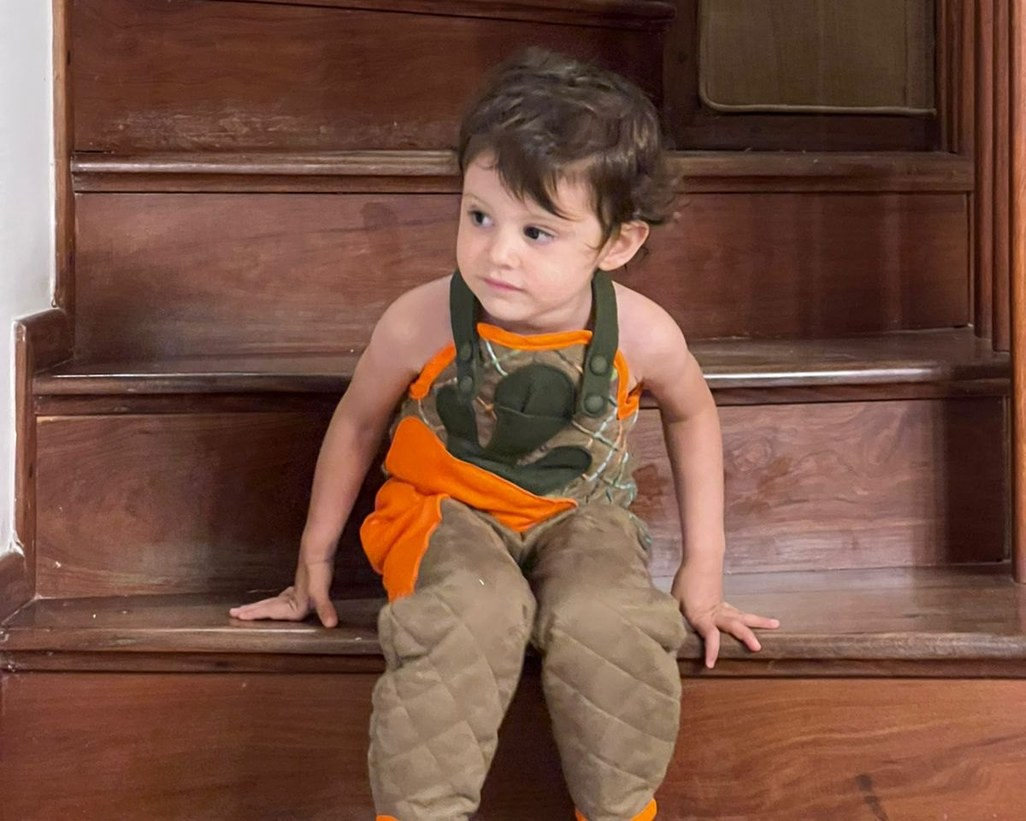
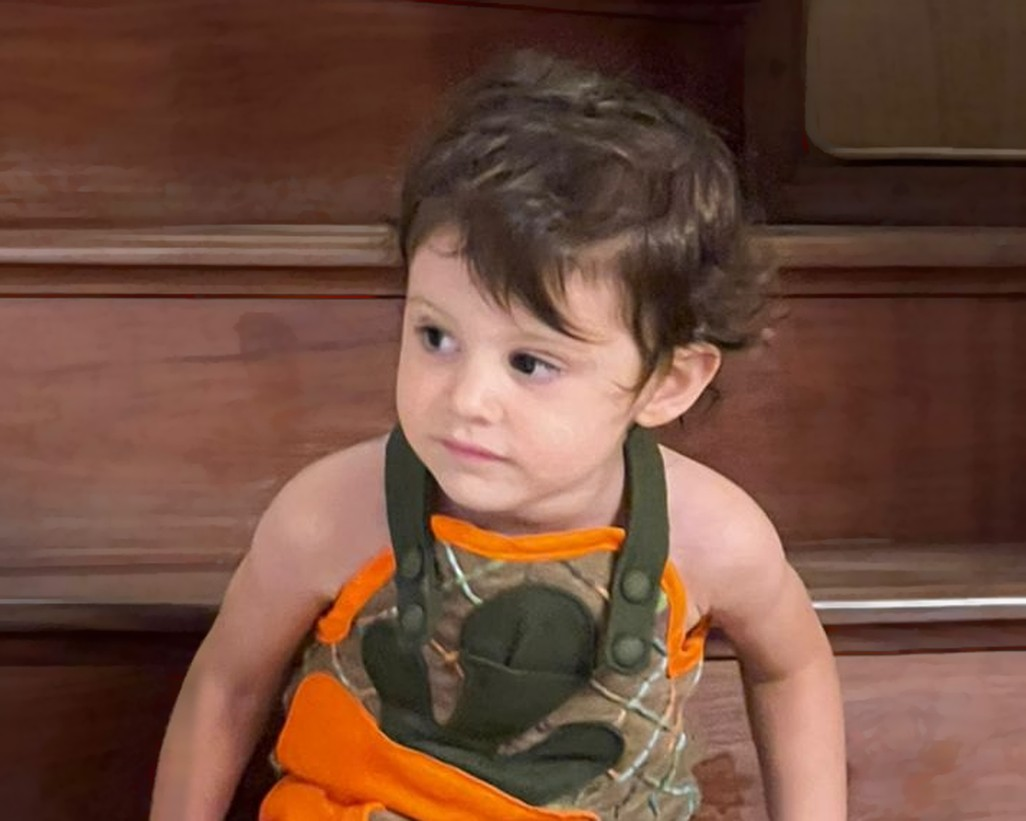
Nada es Plano: inglés corregido por Carolina, centrado leve en la colección y las prendas, créditos más sutiles, texto manuscrito aparece más suave; miniatura de Exprimir con más zoom y escalera retocada
Claude-Session: https://claude.ai/code/session_01VVY2Xm9Z2yGy11hWit3G9P

diff --git a/index.html b/index.html
@@ -677,7 +677,7 @@
   .nep-ph{ position:relative; }
   .nep-ph-img{ position:absolute; display:block; cursor:pointer; will-change:transform; border-radius:3px; object-fit:cover; }
   /* crédito de la modelo: encima de la foto, centrado cerca del borde de abajo, en un piedra muy clarito */
-  .nep-ph-cap{ position:absolute; transform:translateX(-50%); font-size:11px; letter-spacing:.04em; color:#d9d5cc; white-space:nowrap; pointer-events:none; will-change:transform; z-index:1; }
+  .nep-ph-cap{ position:absolute; transform:translateX(-50%); font-size:11px; letter-spacing:.04em; color:#d9d5cc; opacity:.55; white-space:nowrap; pointer-events:none; will-change:transform; z-index:1; }
   /* foto ampliada: lo más grande posible dejando aire, con el fondo difuminado */
   .nep-lb{ position:fixed; inset:0; z-index:330; display:flex; align-items:center; justify-content:center; cursor:pointer;
     background:rgba(255,255,255,.5); -webkit-backdrop-filter:blur(22px); backdrop-filter:blur(22px);
@@ -699,9 +699,9 @@
   .nep-hand{ height:100vh; display:none; position:relative; z-index:1; background:#fff; }   /* tapa lo poco que baja el bloque de abajo de las fotos al abrirse */
   .nep-hand.on{ display:block; }
   .nep-hand-img{ position:absolute; left:50%; top:50%; width:min(44vw, 760px); height:auto; display:block;
-    opacity:0; transform:translate(-50%,calc(-50% + 14px)); filter:brightness(0) blur(7px);
-    transition:opacity .9s ease, transform 1.1s cubic-bezier(.2,.7,.2,1), filter 1s ease; }
-  /* aparece rápido y suave: de difuminado a nítido, subiendo apenas */
+    opacity:0; transform:translate(-50%,calc(-50% + 8px)); filter:brightness(0) blur(9px);
+    transition:opacity 2.6s cubic-bezier(.45,0,.35,1), transform 3s cubic-bezier(.25,.6,.25,1), filter 2.8s cubic-bezier(.4,0,.3,1); }
+  /* aparece muy sutil, sin golpe: de difuminado a nítido, de a poco, subiendo apenas */
   .nep-hand.in .nep-hand-img{ opacity:.92; transform:translate(-50%,-50%); filter:brightness(0) blur(0); }
   /* el video: aparece sutil sobre negro; al terminar (o con un click) se funde en blanco */
   .nep-vid{ position:fixed; inset:0; z-index:330; background:#000; opacity:0; pointer-events:none; transition:opacity 1.2s ease, background-color 1.2s ease; overflow:hidden; }
@@ -1249,7 +1249,7 @@
             <div class="nep-video-clip"><video class="nep-video" id="nepVideo" src="assets/nada-es-plano-video.mp4" muted playsinline preload="auto"></video><div class="nep-ini-veil"></div></div>
             <div class="nep-head" id="nepHead">
               <h1 class="nep-title nep-in">Nada es Plano</h1>
-              <div class="nep-sub nep-in" style="animation-delay:300ms"><em><span data-es>Colecci&oacute;n de indumentaria</span><span data-en>Fashion collection</span></em> &nbsp;2026</div>
+              <div class="nep-sub nep-in" style="animation-delay:300ms"><em><span data-es>Colecci&oacute;n de indumentaria</span><span data-en>Apparel collection</span></em> &nbsp;2026</div>
             </div>
             <div class="nep-roles nep-in" style="animation-delay:300ms">
               <span data-es>Direcci&oacute;n Creativa<br>Desarrollo Conceptual<br>Direcci&oacute;n de Arte<br>Identidad Visual<br>Desarrollo de Colecci&oacute;n</span>
@@ -1281,7 +1281,7 @@
               <img class="nep-proc-img" id="nepProcImg" src="assets/nada-es-plano-proceso-bocetos.webp" alt="Bocetos del proceso">
               <div class="nep-bt1-wrap nep-bt1-mask">
                 <!-- los dos primeros párrafos pasan por el centro con el scroll -->
-                <div class="nep-bt nep-bt1a" id="nepBt1a"><div data-es><p>La investigación sobre color, emoción, memoria e identidad dio lugar a una extensa experimentación textil. La psicología del color funcionó como punto de partida para explorar distintas relaciones cromáticas, mientras la búsqueda de materiales permitió comprender cómo cada superficie modificaba la percepción del color y su expresión.</p><p>A través de pruebas de color, combinaciones y sublimados, se desarrollaron múltiples variantes sobre los textiles seleccionados hasta encontrar las relaciones precisas para cada material. El proceso convirtió la investigación conceptual en decisiones concretas de producto, construyendo un lenguaje cromático propio para la colección.</p></div><div data-en><p>Research into color, emotion, memory and identity led to extensive textile experimentation. Color psychology served as the starting point for exploring different chromatic relationships, while the search for materials made it possible to understand how each surface changed the perception of color and its expression.</p><p>Through color tests, combinations and sublimation prints, multiple variations were developed on the selected textiles until the right relationships were found for each material. The process turned conceptual research into concrete product decisions, building a chromatic language of the collection’s own.</p></div></div>
+                <div class="nep-bt nep-bt1a" id="nepBt1a"><div data-es><p>La investigación sobre color, emoción, memoria e identidad dio lugar a una extensa experimentación textil. La psicología del color funcionó como punto de partida para explorar distintas relaciones cromáticas, mientras la búsqueda de materiales permitió comprender cómo cada superficie modificaba la percepción del color y su expresión.</p><p>A través de pruebas de color, combinaciones y sublimados, se desarrollaron múltiples variantes sobre los textiles seleccionados hasta encontrar las relaciones precisas para cada material. El proceso convirtió la investigación conceptual en decisiones concretas de producto, construyendo un lenguaje cromático propio para la colección.</p></div><div data-en><p>Research into color, emotion, memory and identity led to extensive textile experimentation. Color psychology served as the starting point for exploring different chromatic relationships, while the search for materials made it possible to understand how each surface changed the perception of color and its expression.</p><p>Through color tests, combinations and sublimation prints, multiple variations were developed on the selected textiles until the right relationships were found for each material. The process turned conceptual research into concrete design decisions, building a chromatic language of its own for the collection.</p></div></div>
                 <!-- los otros dos frenan en el centro (y si se abre el cuaderno, los empuja hacia la derecha) -->
                 <div class="nep-bt nep-bt1b" id="nepBt1b"><div data-es><p>La experimentación se extendió a estampas, texturas, transparencias y superposiciones, explorando distintas formas de hacer visible la multiplicidad que atraviesa el concepto. Cada recurso fue desarrollado en relación con los materiales y con su comportamiento sobre la prenda, buscando que lo visual y lo material construyeran una misma expresión.</p><p>El resultado surge de un proceso de prueba y ajuste en el que la exploración no fue un paso previo al diseño, sino parte de su propia construcción.</p></div><div data-en><p>The experimentation extended to prints, textures, transparencies and layering, exploring different ways of making visible the multiplicity that runs through the concept. Each resource was developed in relation to the materials and to how they behave on the garment, so that the visual and the material would build a single expression.</p><p>The result comes from a process of testing and adjusting, in which exploration was not a step prior to design, but part of its very construction.</p></div></div>
               </div>
@@ -1323,7 +1323,7 @@
               <img class="nep-coll-p" src="assets/nada-es-plano-coleccion-14.webp" alt="" style="left:57.500%;top:77.228%;width:20.300%">
               <img class="nep-coll-p" src="assets/nada-es-plano-coleccion-15.webp" alt="" style="left:79.600%;top:72.348%;width:17.950%">
             </div>
-            <div class="nep-bt nep-coll-text"><div data-es><p>La colección reúne quince prendas desarrolladas a partir de una búsqueda simultánea de color, texturas, estampados y moldería. Estas exploraciones se fueron transformando entre sí hasta construir el lenguaje visual y material de la colección. Las estampas incorporaron también obras de arte como referencias e inspiración.</p><p>Los prototipos permitieron llevar estas búsquedas al cuerpo y ajustar cada diseño hasta alcanzar su resolución definitiva. De las quince prendas, cuatro fueron materializadas por condensar especialmente la identidad y complejidad de la colección.</p></div><div data-en><p>The collection brings together fifteen garments developed through a simultaneous exploration of color, texture, print and patternmaking. These explorations kept transforming one another until they built the visual and material language of the collection. The prints also drew on works of art as references and inspiration.</p><p>The prototypes made it possible to bring these explorations onto the body and refine each design until it reached its final resolution. Of the fifteen garments, four were produced because they especially condense the identity and complexity of the collection.</p></div></div>
+            <div class="nep-bt nep-coll-text"><div data-es><p>La colección reúne quince prendas desarrolladas a partir de una búsqueda simultánea de color, texturas, estampados y moldería. Estas exploraciones se fueron transformando entre sí hasta construir el lenguaje visual y material de la colección. Las estampas incorporaron también obras de arte como referencias e inspiración.</p><p>Los prototipos permitieron llevar estas búsquedas al cuerpo y ajustar cada diseño hasta alcanzar su resolución definitiva. De las quince prendas, cuatro fueron materializadas por condensar especialmente la identidad y complejidad de la colección.</p></div><div data-en><p>The collection brings together fifteen garments developed through a simultaneous exploration of color, texture, print and patternmaking. These explorations kept transforming one another until they built the visual and material language of the collection. The prints also drew on works of art as references and sources of inspiration.</p><p>The prototypes made it possible to bring these explorations onto the body and refine each design until it reached its final resolution. Of the fifteen garments, four were produced because they especially condense the identity and complexity of the collection.</p></div></div>
           </section>
 
           <!-- 6. LAS CUATRO PRENDAS MATERIALIZADAS: en una fila, cada una con su espalda por detrás. Al pasar
@@ -4284,10 +4284,10 @@
     const t = Math.min((performance.now() - G.t0) / G.T, 1);
     const t2 = t * t, t3 = t2 * t;
     workTarget = (2 * t3 - 3 * t2 + 1) * G.from + (t3 - 2 * t2 + t) * G.T * G.v0 + (-2 * t3 + 3 * t2) * G.to;
-    if(t >= 1){ workTarget = G.to; nepGlide = null; nepGlideEnd = performance.now(); }
+    if(t >= 1){ workTarget = G.to; nepGlide = null; if(!G.soft) nepGlideEnd = performance.now(); }
   }
   function nepSnaps(){
-    return [nepL && nepL.snap].concat(nb.snaps || [], nepPzSnap ? [nepPzSnap] : [], nepHand.snaps || []).filter(Boolean);
+    return [nepL && nepL.snap].concat(nb.snaps || [], nepHand.snaps || []).filter(Boolean);
   }
   // ¿este movimiento de la ruedita entra en la zona de un punto? → se acomoda solo
   function nepSnapCheck(dir, nt, now){
@@ -4330,7 +4330,31 @@
     const vh = window.innerHeight, row = document.getElementById('nepPzRow');
     const tops = Array.from(row.querySelectorAll('.nep-pz-top .nep-pz-fig'));
     const c = tops.reduce((acc, f) => acc + f.offsetTop + f.offsetHeight / 2, 0) / (tops.length || 1);
-    nepPzSnap = { at: row.offsetTop + c - vh / 2, before: vh * 0.14, after: vh * 0.14, msDown: 1500, msUp: 1500 };
+    nepPzSnap = { at: row.offsetTop + c - vh / 2, range: vh * 0.16 };
+  }
+
+  // centrado muy leve (la colección y las prendas): no corta el scroll. Solo
+  // cuando se deja de scrollear con la sección ya casi en el centro, termina
+  // sola el recorrido, despacio; si se vuelve a scrollear (para cualquier
+  // lado), se suelta enseguida y sigue el scroll normal
+  const NEP_SOFT_IDLE = 200;      // ms quieta la ruedita antes de acomodarse
+  function nepSoftSnaps(){
+    const coll = document.querySelector('.nep-coll');
+    const out = nepPzSnap ? [nepPzSnap] : [];
+    if(coll) out.push({ at: coll.offsetTop + coll.offsetHeight / 2 - window.innerHeight / 2, range: window.innerHeight * 0.16 });
+    return out;
+  }
+  function nepSoftFrame(){
+    if(nepGlide || nepLbOpen || nepVidOpen || performance.now() - workLastWheel < NEP_SOFT_IDLE) return;
+    for(const sp of nepSoftSnaps()){
+      const d = sp.at - workTarget;
+      if(Math.abs(d) > 1.5 && Math.abs(d) < sp.range){
+        // más lejos, un poco más largo; siempre con una curva que arranca y frena suave
+        nepGlide = { from: workTarget, to: sp.at, v0: 0, T: 900 + Math.abs(d) * 2.2, t0: performance.now(), soft: true };
+        nepGlideDir = Math.sign(d);
+        return;
+      }
+    }
   }
 
   // ---- Nada es Plano: fotos ----
@@ -4492,7 +4516,7 @@
     nepEndLayout();
     workTarget = workCurrent = workMax;
     nepEnd.target = 1; nepEnd.open = 1;
-    if(first){ nepHandSec.classList.remove('in'); void nepHandSec.offsetWidth; setTimeout(() => nepHandSec.classList.add('in'), 350); }
+    if(first){ nepHandSec.classList.remove('in'); void nepHandSec.offsetWidth; setTimeout(() => nepHandSec.classList.add('in'), 600); }
   }
   function nepHandHide(){
     nepHand.on = false;
@@ -4586,6 +4610,7 @@
     }
   }
   function nepRestFrame(){
+    nepSoftFrame();
     nepGlideFrame();
     nepEndFrame();
     nepCollFrame();
@@ -5488,7 +5513,9 @@
       if(nepLbOpen || nepVidOpen) return;
       // mientras se acomoda solo: para el mismo lado, la ruedita no hace nada;
       // para el otro lado, se corta el acomodado y sigue el scroll normal
-      if(nepGlide){ if(dir === nepGlideDir) return; nepGlide = null; workTarget = workCurrent; }
+      // (el centrado leve se suelta con cualquier movimiento, sin frenar nada)
+      if(nepGlide && nepGlide.soft) nepGlide = null;
+      else if(nepGlide){ if(dir === nepGlideDir) return; nepGlide = null; workTarget = workCurrent; }
       else if(now - nepGlideEnd < 300 && dir === nepGlideDir) return;
     }
     // y con el cuaderno en su lugar: primero se cierra (ver nbWheel)

diff --git a/CLAUDE.md b/CLAUDE.md
@@ -255,7 +255,7 @@ Zoom: el logo se agranda con `scale()` hasta que una banda vertical específica 
 
 - **01 Nada es Plano** (trabajo de diseño, fondo blanco; proyecto de graduación). Clases `nep-*`. Orden: inicial (video → foto de la IA) → concepto → cuaderno → colección → prendas → fotos → "[ Ver video ]" → video → texto manuscrito.
   - **Versión anterior guardada:** el commit `910bdae` (tag `version-anterior-nada-es-plano`) es como estaba antes de este cambio (foto de la IA después del cuaderno, fotos sobre bordó, texto manuscrito en blanco). Si Carolina dice "volver a la versión anterior", se vuelve a esa.
-  - **Se acomoda solo** (para bajar **y para subir**, a la inversa): al acercarse con el scroll a ciertos puntos, el recorrido termina solo y frena ahí; después se sigue scrolleando normalmente. **El comienzo no se tiene que notar:** el recorrido automático arranca con la misma velocidad que traía la ruedita y termina frenando suave (una curva continua, `nepGlideTo`); si se scrollea para el otro lado mientras se acomoda, se corta y sigue el scroll normal. Puntos (`at / before / after / msDown / msUp`): **pregunta del concepto** en el centro (al bajar, desde que el degradé de la foto ocupa media pantalla, 1.8s; al subir, 0.9s); **los dos primeros párrafos del cuaderno** en el centro, con el cuaderno asomado (1.6s); **los otros dos párrafos** en el centro (con el próximo scroll, 1.7s; después, scroll normal y el cuaderno se va); **prendas** en el centro, tomando el centro de las partes de arriba (cuando ya casi están, muy suave, 1.5s); y, ya visto el video, **entre el final de las fotos y la pantalla del texto manuscrito** (un solo movimiento, 1.6s).
+  - **Se acomoda solo** (para bajar **y para subir**, a la inversa): al acercarse con el scroll a ciertos puntos, el recorrido termina solo y frena ahí; después se sigue scrolleando normalmente. **El comienzo no se tiene que notar:** el recorrido automático arranca con la misma velocidad que traía la ruedita y termina frenando suave (una curva continua, `nepGlideTo`); si se scrollea para el otro lado mientras se acomoda, se corta y sigue el scroll normal. Puntos (`at / before / after / msDown / msUp`): **pregunta del concepto** en el centro (al bajar, desde que el degradé de la foto ocupa media pantalla, 1.8s; al subir, 0.9s); **los dos primeros párrafos del cuaderno** en el centro, con el cuaderno asomado (1.6s); **los otros dos párrafos** en el centro (con el próximo scroll, 1.7s; después, scroll normal y el cuaderno se va); y, ya visto el video, **entre el final de las fotos y la pantalla del texto manuscrito** (un solo movimiento, 1.6s). **Centrado muy leve (la colección y las prendas):** no corta el scroll ni lo frena; solo cuando se deja de scrollear (200ms quieta la ruedita) con la sección ya casi en el centro (a menos de un 16% del alto de pantalla), termina sola el recorrido despacio (curva que arranca y frena suave, ~0.9–1.2s; `nepSoftFrame`); cualquier movimiento de la ruedita lo suelta enseguida. Las prendas se centran tomando el centro de las partes de arriba.
   1. **Inicial:** al abrir el trabajo se reproduce el video `nada-es-plano-video.mp4` (5s, sin sonido, a pantalla completa, sin textos; **la barra del menú queda siempre a la vista**; mientras dura no se puede bajar). Cuando le faltan **1.4s**, empieza un **zoom a las caras de las chicas** (hacia 1.42, en 1.7s, con una curva que **nunca frena antes del paso a la foto**: antes frenaba justo cuando arrancaba el paso y se notaba el corte) (punto de apoyo: el medio entre las dos caras, `NEP_FACES`), con el video todavía en movimiento; **se ve el video casi hasta el final** (la chica de la derecha mira hacia adelante) y cuando le faltan **.42s** (se recortan esas décimas, así nunca se ve el último cuadro frenado) pasa a la foto de la IA **sin que se crucen las dos imágenes y rápido, continuo**: el video, todavía acercándose, se aclara hacia los tonos de la foto, se desenfoca apenas y se cubre con el color liso del fondo de la foto (.36s) y, sin quedarse quieto, ese color se va (.5s) y aparece la foto (que se acomoda apenas, de un 3.5% más grande a su tamaño). *(probado: fundido directo video → foto; se veían las dos imágenes cruzadas.)* **Foto de la IA** (`nada-es-plano-ia-creativa.jpg`, extendida recreando su fondo: lienzo de 2400×1840, la foto original en 200,362, sin tocar a las personas): mide un 93.6% del alto de la pantalla (sin pasarse del 95% del ancho), centrada, con los bordes fundidos con su **fondo liso** (`nada-es-plano-ia-creativa-fondo.jpg`, sacado de los bordes de la foto). Ese fondo **sigue hacia abajo** en su mismo color y **se aclara muy de a poco hasta el blanco** (degradé con curva suave, `--nep-ini-g = 58vh`), sin cortes. **Título y subtítulo**: sobre la foto, **arriba de las cabezas de las dos chicas agachadas**, centrados entre las dos que están paradas, apenas a la izquierda (`NEP_HEAD_X = 1628`, entre la posición original 1640 y la de 1615) (a la altura de sus cabezas, donde hay más lugar); si en una pantalla angosta el título no entra entre el pelo de las dos, se achica lo justo. El **año ("2026") y los servicios** van un poco más oscuros que el piedra (`#5e594f`, sin llegar a negro). **Servicios y pie de foto intercambiados** (para probar): los **servicios abajo a la derecha**, alineados a la derecha, a 32px del borde (lo mismo que las letras del menú del borde de arriba); el **pie de foto** "IA creativa @studio.joaquina" (11px, .04em, `#6f685c`) **abajo a la izquierda**, donde estaban los servicios. Los textos aparecen cuando el fundido ya casi terminó (sin animación de entrada). *(probado y descartado: la última imagen del video transformándose como un líquido en las letras, con WebGL; video que se fundía en blanco con los textos sobre blanco; la foto de la IA como sección aparte después del cuaderno — es la versión anterior guardada.)*
   2. **Concepto:** arranca **recién cuando el fondo de la foto de la IA se fundió del todo con el blanco** (ocupa un viewport totalmente en blanco; la separación con la parte inicial la da el degradé, `--nep-ini-g = 58vh`, un poco más corto que antes). **Ni bien el degradé ocupa media pantalla, se desliza solo hasta la pregunta** (1.8s). **El texto se mueve con el mismo peso que el resto de la web** (`NEP_WEIGHT = NEP_Q_WEIGHT = 1`, sin retraso propio; antes era más pesado y se notaba raro). Mientras dura, la pantalla queda quieta y el scroll mueve el texto. **Sin cilindro**: las líneas son planas y **aparecen y desaparecen fundiéndose con el fondo**. Primero aparece **la pregunta sola** ("¿Cómo es posible…?"), en Instrument Sans itálica, en tinta, `clamp(22px,2.5vw,36px)`: se va **"apoyando" letra por letra** a medida que llega al centro, **se acomoda sola en el centro**, se queda un momento quieta y se va fundiéndose con el fondo. Después, los párrafos (columna de `min(60ch,80vw)`, más ancha para que no queden líneas finales muy cortas): **centro nítido de 5 líneas** (`NEP_LINES`); por arriba y por abajo cada línea se funde (`NEP_FADE`). Texto centrado.
   3. **Cuaderno** (arranca **ni bien se va la última línea del concepto**). Toda la sección es **un poco más pesada** (`NB_WEIGHT = 1.25`) para que el cuaderno se mueva más sutil. Fotos `nada-es-plano-cuaderno-N.webp` (fondo transparente, marco común de 2000×1700, lomo en el centro; **se les sacó la tela traslúcida que colgaba por debajo** —la cinta naranja quedó, completada donde la tapaba la tela—, **la tapa y la contratapa están recreadas como un objeto gráfico: un naranja plano (`rgb(212,88,40)`, menos brillante que antes), sin las sombras oscuras de las esquinas ni textura; solo quedan los detalles finos (el elástico, los bordes)**; los papeles y la cinta naranja de abajo quedan como estaban; el borde naranja de las páginas abiertas, igual de plano (el contraste "de foto" no le gustó), y el interior tiene **un poco más de contraste, también más plano**. En la página 6 (que ahora va **antes** que la 4: se intercambiaron la última y la anteúltima página abierta), sobre el papel suelto blanco de la izquierda hay **una foto de la producción impresa en papel** (la de la chica caminando), un poco más chica que el papel, girada como él y sin salirse, con una sombra suave). **Se usan seis:** tapa (1) · 2 "Avíos" · 3 "Despiece" · 6 bocetos (con la foto impresa) · 4 triángulo verde · contratapa (8) (`NB_PAGES`). La tapa mide un 60% del alto de la pantalla. Sobre el margen derecho, **bocetos del proceso** (`nada-es-plano-proceso-bocetos.webp`, su final se funde con el fondo): **son lo primero que aparece** (entran por abajo ni bien termina el concepto) y suben con el scroll. Los **cuatro párrafos** que lo acompañan van **alineados a la izquierda y del mismo ancho** (`min(49ch,37vw)`). Recorrido (todo con la sección fija en la pantalla):
@@ -266,8 +266,8 @@ Zoom: el logo se agranda con `scale()` hasta que una banda vertical específica 
      - **e.** **Con el scroll para abajo, después del click:** se va igual que en c. (volviendo a su tamaño), **mostrando la contratapa**; "[ Scroll ]" **se desvanece rápido**; el texto queda donde está. Si está en una **página del medio**, primero **se cierra hacia la tapa** (rápido). **Para subir**: primero se cierra y **vuelve a quedar asomado** (el texto y los bocetos vuelven a su lugar), así nunca queda en el medio de la pantalla encima de los primeros párrafos. Fuera de esa sección, el cuaderno no está o está asomado a la izquierda: si se sube de cualquier forma (aunque sea rápido), se cierra y vuelve a quedar asomado, y los bocetos vuelven a su lugar (el texto y los bocetos se mueven con un poco de peso, así nunca saltan). Cuando ya salió de la pantalla, **vuelve solo a la tapa y deja de estar abierto**.
   4. **Colección** (scroll normal; **con 40vh de separación** después de los últimos párrafos del proceso; fondo blanco): a la izquierda, **grande** (`min(53.2vw, 79.8vh·1.414)`), los geometrales de las 15 prendas, **cada una por separado** (`nada-es-plano-coleccion-01..15.webp`, de los archivos "1Recurso 1–15" de Carolina, **ya exportados en 3x**, con sus variaciones de color), ubicadas cada una en su lugar de la lámina completa (2000×1414; las posiciones se buscaron comparando con la lámina original). **De a una y al azar, cada prenda se levanta apenas y vuelve a bajar** (sube 3px y crece apenas un 1.2%, con una sombra muy leve, 1.3s; como el logo de la intro al pasar el cursor pero con un recorrido mucho más corto); **poco movimiento: una por vez, con pausas, y como mucho dos casi al mismo tiempo**; la misma prenda no se repite enseguida; solo mientras la colección está en pantalla; a la derecha el texto (de Carolina): "La colección reúne quince prendas desarrolladas a partir de una búsqueda simultánea de color, texturas, estampados y moldería…" / "Los prototipos permitieron llevar estas búsquedas al cuerpo…" (2 párrafos, alineado a la izquierda; "quince" en palabras, también en "De las quince prendas…"). **Calidad:** las prendas sueltas vinieron más chicas de lo que se ven en la lámina; para que se vean nítidas conviene que Carolina las exporte desde Illustrator ("Exportar para pantallas" → Recursos) en **PNG a escala 3x**, sin prefijo y sin sufijo, y las suba con los mismos nombres (lo mismo para los "Recurso 1–4" de las prendas materializadas).
   5. **Las cuatro prendas materializadas** (un viewport): chaqueta verde, pantalón verde, camisa estampada, pantalón estampado (`nada-es-plano-prenda-1..4-frente/espalda.webp`, de los archivos "Recurso 1–4" que pasó Carolina con el color corregido: 1 camisa matices, 2 pantalón dual, 3 pantalón vestigio, 4 chaqueta vestigio; frente a la izquierda y espalda a la derecha en cada archivo; quedan del mismo tamaño que antes). **En una sola fila**, repartidas de forma pareja en el ancho, con su espalda asomando por detrás (a la derecha y apenas más arriba, con sombra leve). **No están centradas en alto**: las partes de arriba y los pantalones **arrancan a la misma altura** (el cuello de unas al nivel de la cintura de los otros). Tamaño: **un 20% más alto** que la versión anterior (`--pz-k`), salvo que no entre a lo ancho de la pantalla: ahí se achica lo justo (en una pantalla de 1440px de ancho queda casi igual que antes). **Al pasar el cursor** por una prenda: las de arriba **bajan** y los pantalones **suben** (`--pz-d`, sin salir de la pantalla), y en el lugar que dejan aparece **su descripción** (título en MAYÚSCULAS 11.5px .09em + texto 12–13.5px, interlineado 1.62, **centrado en el espacio de la delantera con la espalda y un poco más angosto (90%)**, y bien separado de la prenda: el de las partes de arriba termina a 40px de la prenda ya bajada y crece hacia arriba; el de los pantalones arranca a 40px del pantalón ya subido; así nunca se pisa con las prendas), y al final **"Ficha técnica"** con un ícono de descarga fino al principio (11px, .06em, tinta; al pasar el cursor se aclara): descarga el PDF de la ficha (`nada-es-plano-ficha-chaqueta-vestigio / pantalon-vestigio / camisa-matices / pantalon-dual.pdf`; en los PDF se cambió "Modelo:" por el nombre nuevo de cada prenda, con la misma tipografía del PDF, y en los pantalones "tiro medio" por "tiro bajo"). Nombres y textos (de Carolina): **Chaqueta Vestigio**, **Pantalón Vestigio**, **Camisa Matices**, **Pantalón Dual**. Mientras una está abierta, el hueco entre la prenda y su texto también cuenta como "encima". El texto del **último pantalón** es más ancho hacia la derecha (100% en vez de 90%), lo justo para que quede una línea menos. Se puede leer **una sola a la vez**; al salir de la prenda o de su texto vuelve. **Se abre más rápido (.7s) de lo que se cierra (1.15s)** y **sigue al cursor**: si se va antes, vuelve desde donde estaba.
-  6. **Fotos** (sobre **blanco**, sin bordó; **42vh en blanco** las separan de las prendas: un poco más que entre la colección y las prendas): las fotos de la producción (`nada-es-plano-foto-01..10.jpg`; **02, 04, 08 y 10 ya son las editadas** por Carolina —`irisywan2-1`, `iris1-1`, `irisywan4-1`, `irisywan3-1`—; cinco recortadas en vertical; la **08** —la chica de verde sentada y la de espaldas— recortada arriba y a la izquierda para que no se vea la sombrilla amarilla, sin cortar los pies de la chica sentada, en la misma proporción 3:2), **de borde a borde y separadas 10px** (como las fotos finales de Un Mundo para Exprimir), bordes apenas redondeados (3px), sin sombra. Se arman en **dos bloques** (uno arriba del otro, separados por una **línea recta**); cada bloque, en **columnas de distinto ancho** (cada foto, del ancho de su columna) que **arrancan y terminan parejas**: así el principio y el final son rectos y ninguna "línea" tiene más de cuatro fotos (las fotos quedan unas más arriba y otras más abajo, sin filas definidas). Bloque de arriba: 03-04-10 · 02-05 · 07-06; bloque de abajo: 09 · 08 · 01 (`data-b` / `data-c` en el HTML; las medidas las calcula `nepPhLayout`). **Créditos de las modelos encima de las fotos**, centrados cerca del borde de abajo (a 14px), en las dos fotos de los costados de la última línea (11px, .04em, piedra clarito `#d9d5cc`): la 09 (camisa bordó) "modelo @wandita.s.r_" y la 01 (campera verde) "modelo @iridisenteh" (`data-cap` en el HTML; en inglés "model"). **Al entrar a las fotos, la barra del menú se va, sutil** (.9s), y vuelve al subir. **Click en una foto → se ve completa**, lo más grande posible dejando aire (84% de la pantalla), con el fondo difuminado; otro click (o Esc) la cierra.
-  7. **"[ Ver video ]" + video + texto manuscrito:** el **tope de abajo** es el final de las fotos (con un margen blanco de 64px debajo, donde aparece "[ Volver al home ]"). **Si estando en el tope se sigue scrolleando para abajo** (sin que el tope se mueva ni rebote), aparece **"[ Ver video ]"** **en el margen de abajo, apenas debajo de la última foto, centrado** (donde antes estaban los créditos; "[ Volver al home ]" queda debajo, en el mismo margen; antes aparecía en la línea entre los dos bloques de fotos, que se abrían 50px: ya no se abren, `NEP_END_OPEN = 0`) (11px, .14em, piedra; al pasar el cursor, tinta), **"escribiéndose"** como el texto manuscrito (de izquierda a derecha, borde muy difuminado, subiendo apenas). Queda abierto **hasta que se sale de esa pantalla con el scroll** (ahí se cierra; al volver, se abre de nuevo con otro scroll en el tope). Click → **el video** (`nada-es-plano-video-final.mp4`, con sonido, **a todo el ancho de la pantalla**; la marca de agua "clideo.com" se borró **sin recortar el cuadro**) **aparece sutil sobre negro** (mientras se ve, la barra del menú se va); al terminar, o con un **click en cualquier lugar en cualquier momento** (o Esc), **se funde en blanco** y queda **la pantalla del texto manuscrito** ("Tener matices es tener profundidad…", `nada-es-plano-manuscrito.png`, **en negro**, `min(44vw,760px)`, centrado), que **aparece rápido y suave: de difuminado a nítido, subiendo apenas** (antes se escribía línea por línea y se veía raro). **Esa pantalla pasa a ser el nuevo tope** (solo se llega viendo el video). Desde ahí, **un solo movimiento para arriba** vuelve solo al final de las fotos, con "[ Ver video ]" a la vista; **y la pantalla del texto se bloquea otra vez**: solo se llega a ella viendo el video.
+  6. **Fotos** (sobre **blanco**, sin bordó; **42vh en blanco** las separan de las prendas: un poco más que entre la colección y las prendas): las fotos de la producción (`nada-es-plano-foto-01..10.jpg`; **02, 04, 08 y 10 ya son las editadas** por Carolina —`irisywan2-1`, `iris1-1`, `irisywan4-1`, `irisywan3-1`—; cinco recortadas en vertical; la **08** —la chica de verde sentada y la de espaldas— recortada arriba y a la izquierda para que no se vea la sombrilla amarilla, sin cortar los pies de la chica sentada, en la misma proporción 3:2), **de borde a borde y separadas 10px** (como las fotos finales de Un Mundo para Exprimir), bordes apenas redondeados (3px), sin sombra. Se arman en **dos bloques** (uno arriba del otro, separados por una **línea recta**); cada bloque, en **columnas de distinto ancho** (cada foto, del ancho de su columna) que **arrancan y terminan parejas**: así el principio y el final son rectos y ninguna "línea" tiene más de cuatro fotos (las fotos quedan unas más arriba y otras más abajo, sin filas definidas). Bloque de arriba: 03-04-10 · 02-05 · 07-06; bloque de abajo: 09 · 08 · 01 (`data-b` / `data-c` en el HTML; las medidas las calcula `nepPhLayout`). **Créditos de las modelos encima de las fotos**, centrados cerca del borde de abajo (a 14px), en las dos fotos de los costados de la última línea (11px, .04em, piedra clarito `#d9d5cc` al 55%: apenas se leen): la 09 (camisa bordó) "modelo @wandita.s.r_" y la 01 (campera verde) "modelo @iridisenteh" (`data-cap` en el HTML; en inglés "model"). **Al entrar a las fotos, la barra del menú se va, sutil** (.9s), y vuelve al subir. **Click en una foto → se ve completa**, lo más grande posible dejando aire (84% de la pantalla), con el fondo difuminado; otro click (o Esc) la cierra.
+  7. **"[ Ver video ]" + video + texto manuscrito:** el **tope de abajo** es el final de las fotos (con un margen blanco de 64px debajo, donde aparece "[ Volver al home ]"). **Si estando en el tope se sigue scrolleando para abajo** (sin que el tope se mueva ni rebote), aparece **"[ Ver video ]"** **en el margen de abajo, apenas debajo de la última foto, centrado** (donde antes estaban los créditos; "[ Volver al home ]" queda debajo, en el mismo margen; antes aparecía en la línea entre los dos bloques de fotos, que se abrían 50px: ya no se abren, `NEP_END_OPEN = 0`) (11px, .14em, piedra; al pasar el cursor, tinta), **"escribiéndose"** como el texto manuscrito (de izquierda a derecha, borde muy difuminado, subiendo apenas). Queda abierto **hasta que se sale de esa pantalla con el scroll** (ahí se cierra; al volver, se abre de nuevo con otro scroll en el tope). Click → **el video** (`nada-es-plano-video-final.mp4`, con sonido, **a todo el ancho de la pantalla**; la marca de agua "clideo.com" se borró **sin recortar el cuadro**) **aparece sutil sobre negro** (mientras se ve, la barra del menú se va); al terminar, o con un **click en cualquier lugar en cualquier momento** (o Esc), **se funde en blanco** y queda **la pantalla del texto manuscrito** ("Tener matices es tener profundidad…", `nada-es-plano-manuscrito.png`, **en negro**, `min(44vw,760px)`, centrado), que **aparece muy sutil, sin golpe: de difuminado a nítido de a poco (2.6–3s), subiendo apenas 8px**, arrancando .6s después del blanco (antes se escribía línea por línea y se veía raro; después apareció demasiado de golpe). **Esa pantalla pasa a ser el nuevo tope** (solo se llega viendo el video). Desde ahí, **un solo movimiento para arriba** vuelve solo al final de las fotos, con "[ Ver video ]" a la vista; **y la pantalla del texto se bloquea otra vez**: solo se llega a ella viendo el video.
   - **Tarjetas: sin uso por ahora.** Las tres tarjetas que se dan vuelta (arte @sven_pfrommer / @origersht / @alekustn, dorsos "Matiz Irruptivo", "Reverberante Eco", "Albor Indómito") quedaron **guardadas en el código** dentro de un `<template id="nepCardsTpl">` (no se muestra), con su CSS y JS. **Si Carolina escribe "agregar tarjetas"**, se vuelven a usar tal cual estaban (2/3 del tamaño original +15%, equidistantes, bordes de 5px, giro 3D de .95s con 12px de grosor, una sola dada vuelta a la vez).
   - **Inglés (primera versión, a revisar por Carolina):** ya está cargado (botón ES/EN). Concepto: `data-en-text` en la pregunta y los párrafos (el JS los rearma al cambiar de idioma, `nepApplyLang`); proceso y colección: un `<div data-es>` y un `<div data-en>` con los párrafos; prendas, subtítulo, pie de foto, créditos, "Ver video" y "Ficha técnica": `<span data-es>` / `<span data-en>`. El título "Nada es Plano" y los nombres propios de las prendas (Vestigio, Matices, Dual) quedan en castellano: "Vestigio Jacket", "Vestigio Trousers", "Matices Shirt", "Dual Trousers".
 - **05 7600 — portada congelada y cortina negra:** al scrollear, la portada queda fija y la cortina negra sube desde abajo hasta dejar la portada visible solo en **menos de un cuarto de la pantalla, arriba** (el negro pleno arranca al 19% del alto; antes 24%, se achicó un poco más). El fundido entre portada y negro mantiene siempre la misma curva; su largo (`--alb-g`, hasta 340px) se ajusta al alto de la pantalla y, si hace falta, arranca apenas por encima de la pantalla para no comprimirse.
@@ -306,7 +306,7 @@ Todo vive en un **único `index.html`**, sin páginas separadas ni rutas — la 
 - **Redes confirmadas:** Instagram `@caropicone` → `instagram.com/caropicone`; LinkedIn → `linkedin.com/in/carolina-picone-680a20331`.
 - **Mail de contacto:** `carolinapicone.t@gmail.com`.
 - Los 5 bloques de "Trabajos" en el home son placeholders (patrón diagonal gris/negro) — *(sin definir)* faltan las imágenes reales de cada proyecto.
-- **Miniatura de Un Mundo para Exprimir en el home:** `exprimir-thumb.jpg`, recorte de `exprimir-final-3.jpg` (la nena sentada en la escalera), centrada en ella, en la proporción del recuadro (1.25).
+- **Miniatura de Un Mundo para Exprimir en el home:** `exprimir-thumb.jpg`, recorte de `exprimir-final-3.jpg` (la nena sentada en la escalera), centrada en ella, en la proporción del recuadro (1.25): corta un poco debajo de la cintura (casi sin piernas) y con más zoom, con el mismo aire arriba de la cabeza que antes (~7%). **La escalera está retocada para que se vea nueva**: sin rayones, gastado ni manchas (se suavizó solo a lo largo de las tablas, así quedan la veta y los cantos; la nena no se toca).
 - **Miniatura de Nada es Plano en el home:** `nada-es-plano-thumb.jpg`, de la foto editada `irisywan4-1.JPG` (la chica de verde sentada y la de espaldas), con **la sombrilla amarilla pasada a blanco** (como las sillas, conservando sus pliegues y sombras). **El original `irisywan4-1.JPG` queda en la raíz del repositorio a pedido de Carolina: no borrarlo.**
 - **Proyectos a incluir** (según el brief inicial de Carolina, no necesariamente en este orden): *"Nada es Plano"* (proyecto de graduación), *"Dualidad Fusionada"* (puerto de trabajo vs. universo náutico recreativo de Mar del Plata), un proyecto de indumentaria infantil (deliberadamente discreto, va último — no representa su estética pero muestra versatilidad técnica), dirección artística de un cortometraje, dirección creativa de la producción visual de un álbum musical.
 - **Metodología de trabajo que funciona bien con Carolina:** cuando algo no queda en el lugar exacto que imagina, suele mandar una captura de pantalla con una grilla o bloques de color marcando la posición exacta en píxeles — es el método más efectivo para ajustes finos de ubicación, más que las descripciones en palabras.
